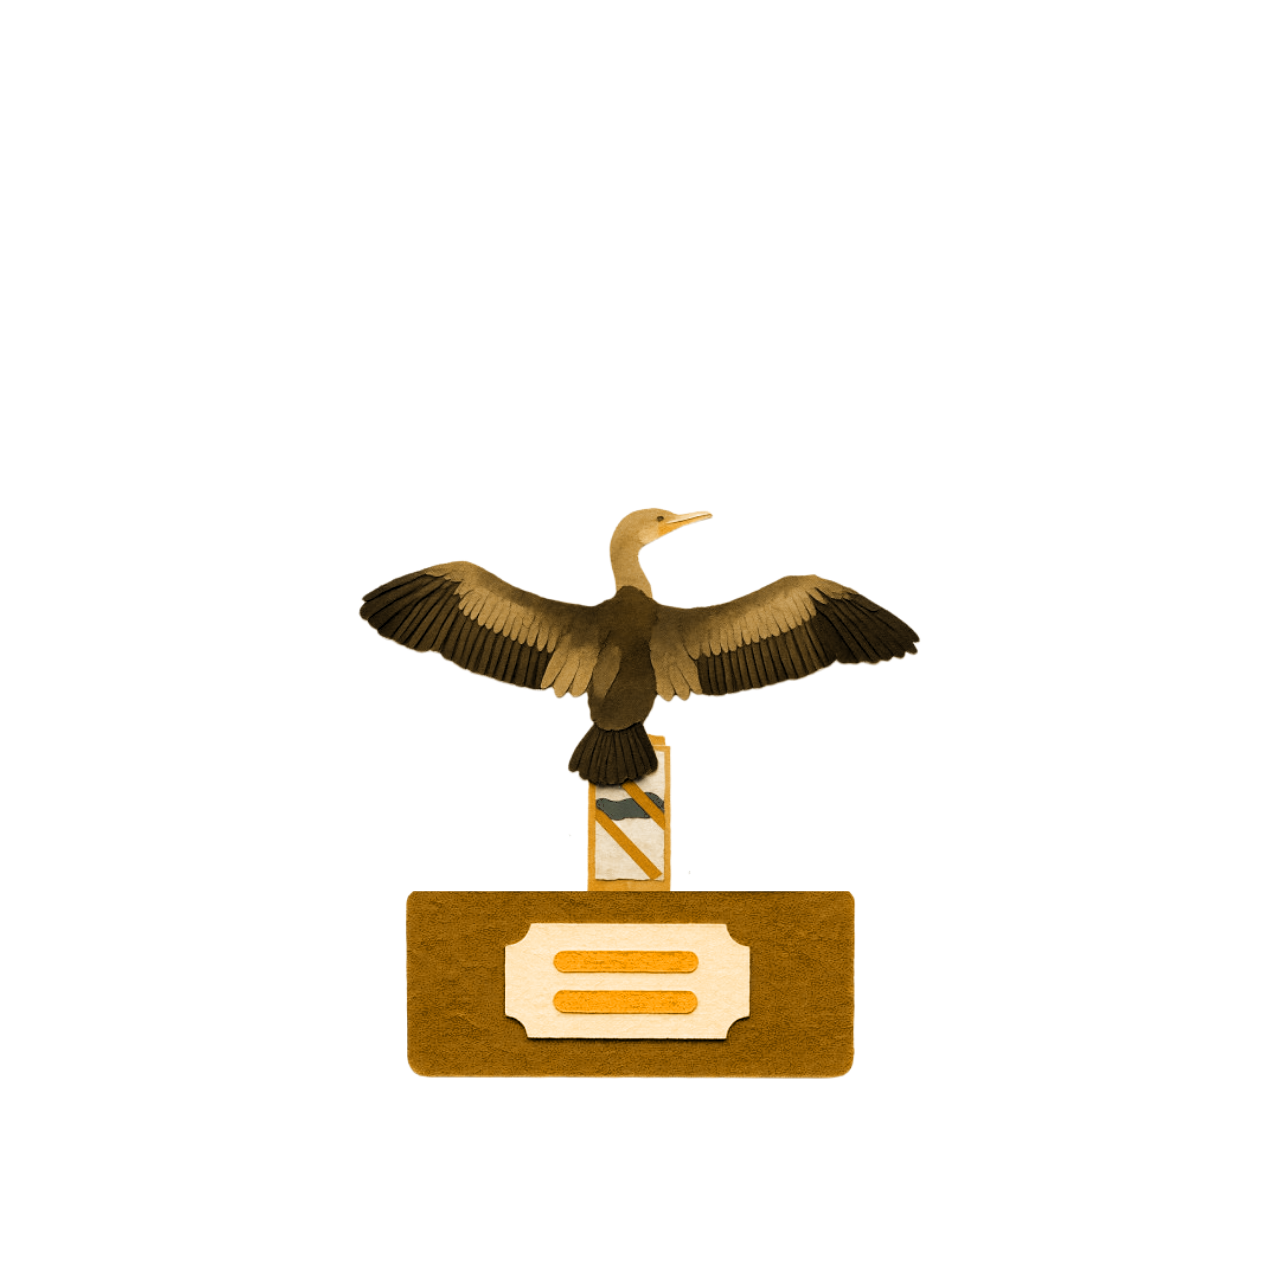
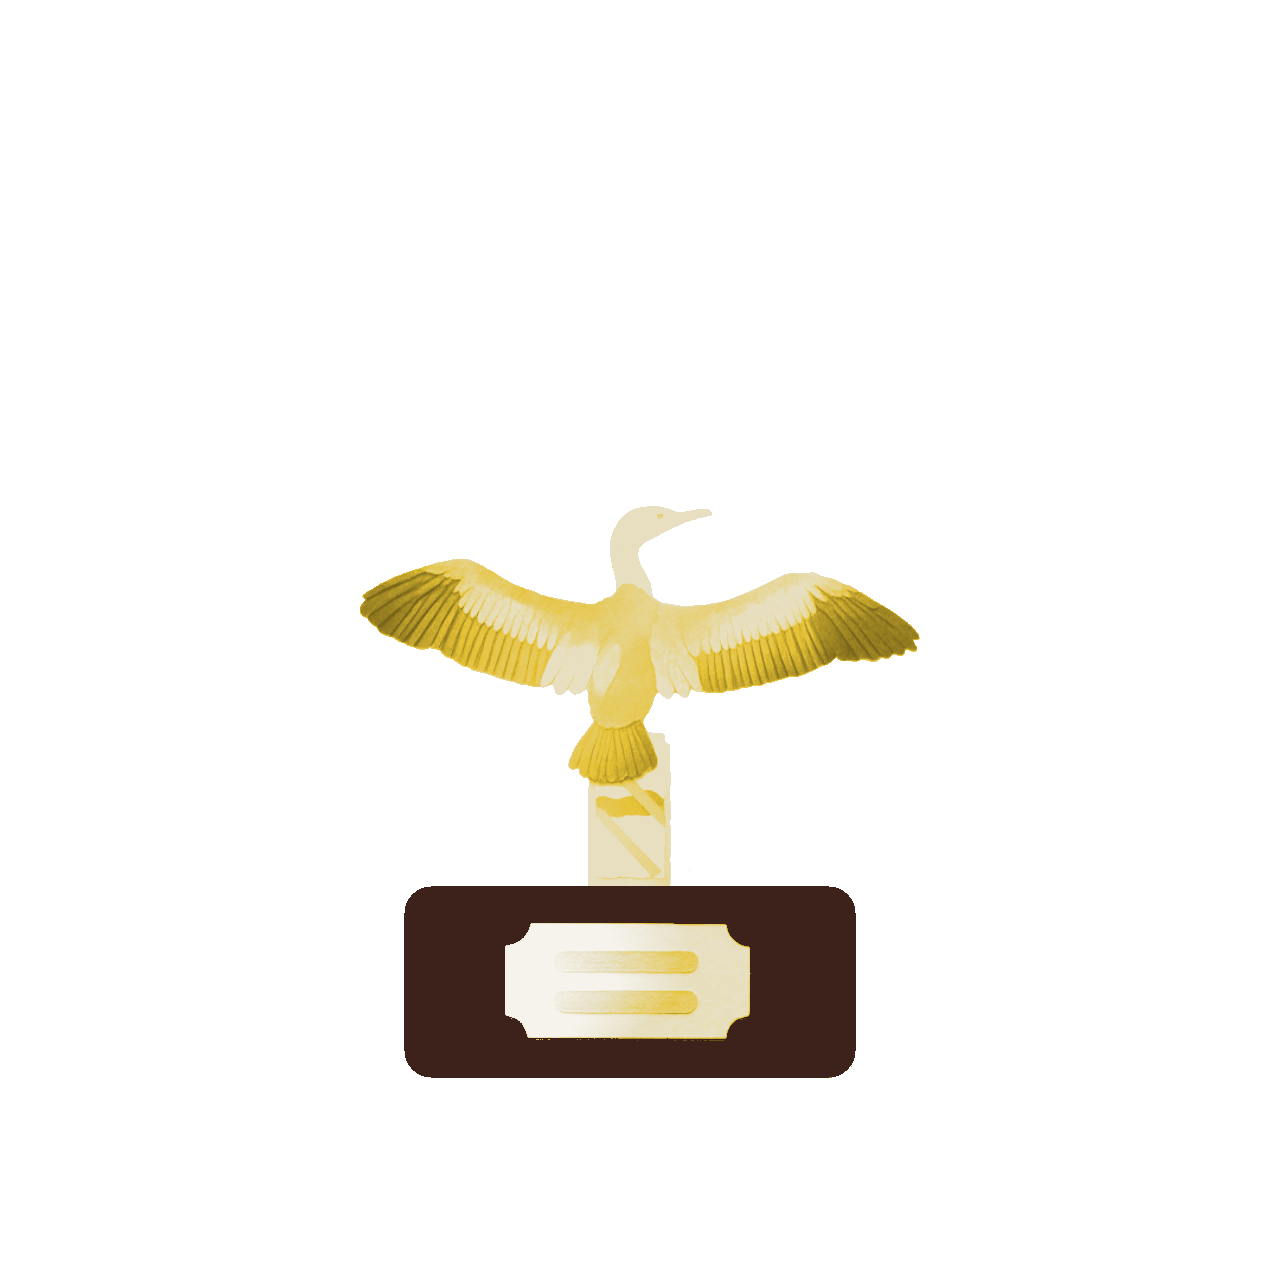
Refonte trophees batch 4 : - Ciconiidae (cigogne) : 5 tiers - Suliformes (cormoran) : 5 tiers - Ardeidae (heron) : 5 tiers Compression ~45%. Cache v308.

Changed region(s): [[0.2777, 0.4011, 0.7405, 0.8639]]

diff --git a/service-worker.js b/service-worker.js
@@ -3,7 +3,7 @@
 //   puis rafraichit en background. Prochain reload = nouvelle version.
 // - Requetes cross-origin (Firestore, iNaturalist, xeno-canto, Wikipedia, etc.) : reseau seul.
 // - Bump CACHE_VERSION quand on veut invalider volontairement.
-const CACHE_VERSION = 'v307-2026-09-17-batch3-rale-martinet';
+const CACHE_VERSION = 'v308-2026-09-17-batch4-cigogne-cormoran-heron';
 const CACHE_NAME = 'lmb-' + CACHE_VERSION;
 
 self.addEventListener('install', (e) => {
